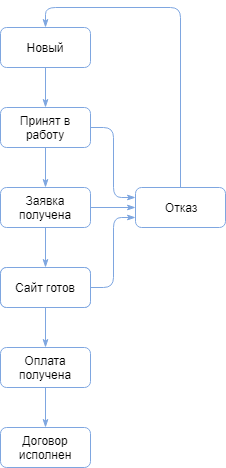
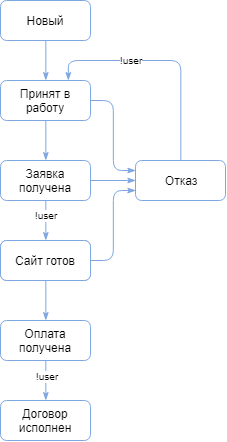
Creates assets/lead-edit.png
Auto commit by GitBook Editor

diff --git a/leadInfo.md b/leadInfo.md
@@ -23,9 +23,12 @@
 * Все обращения;
 * Сертификация.
 
+Выбор проекта важен для формирования перечня услуг, подставляемых в договор.
+
 
 
 ## Статусы лидов и услуг
+### Статусы лидов
 Для лидов в CRM существует следующий набор статусов:
 * новый;
 * принят в работу;
@@ -37,6 +40,12 @@
 На рисунке ниже представлена диаграмма переходов для статусов лидов.
 ![](/assets/crm-leads-stats.png)
 
+Из рисунка видно, что пользователи с ролью «user» не могут осуществлять такие переходы, как:
+* заявка получена → сайт готов;
+* оплата получена → договор исполнен;
+* отказ → принят в работу.
+
+### Статусы услуг
 Для услуг в CRM определены такие статусы, как:
 * услуга не активна;
 * не готовы;
@@ -47,7 +56,27 @@
 На рисунке ниже представлена диаграмма переходов для статусов услуг.
 ![](/assets/crm-serv-stats.png)
 
+Из рисунка видно, что пользователи с ролью «user» могут осуществлять такие переходы, как:
+* услуга неактивна → не готовы;
+* услуга неактивна → производство.
+
 ## Редактирование информации
+Для редактирования общей информации о лиде необходимо нажать кнопку ![edit](/assets/but-edit.png).
+
+Для редактирования доступна такая информация, как:
+* название лида;
+* проект;
+* менеджер;
+* телефон;
+* дополнительная информация;
+* адрес;
+* e-mail;
+* источник;
+* часовой пояс.
+
+![](/assets/lead-edit.png)
+
+Для завершения редактирования и сохранения изменений необходимо нажать галочку в верхнем правом углу.
 
 ## Перечень услуг
 

diff --git a/users.md b/users.md
@@ -1,0 +1,24 @@
+# Пользователи
+<hr>
+## Общая информация
+В CRM определены три группы пользователей:
+* *user*
+* *admin*
+* *superadmin*
+
+Каждая группа прав обладает разным уровнем доступа. **чем отличаются? кто что может делать?**
+
+Зарегистрированный пользователь может сменить пароль. **как?**
+## Регистрация пользователей
+Регистрация пользователя производится it-отделом.
+
+Для регистрации нового пользователя необходимы следующие данные:
+* фамилия и имя;
+* почта;
+* роль в системе (*user*/*admin*/*superadmin*).
+
+## Блокировка пользователей
+
+Блокировка пользователей также осуществляется it-отделом.
+
+Для блокировки пользователя необходимо сообщить фамилию и имя либо почту пользователя.

diff --git a/SUMMARY.md b/SUMMARY.md
@@ -2,6 +2,7 @@
 
 * [Введение](README.md)
 * [Работа с CRM](usingCRM.md)
+  * [Пользователи](users.md)
   * [Работа с лидами](usingCRM/rabota-s-lidami.md)
     * [Жизненный цикл лида](leadsLifecycle.md)
       * [Создание](leadsLifecycle.md)
